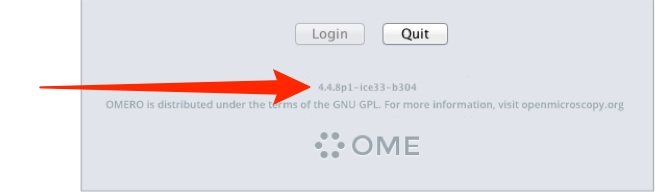
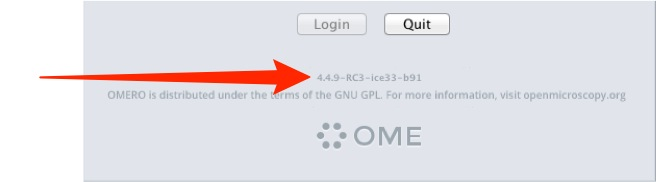
Updating pages and links to show version 4.4.9 and new downloads pages

diff --git a/index.html b/index.html
@@ -6,7 +6,7 @@ title: Home Page
 <p>These pages contain the User Guides for OMERO.insight and OMERO.web.</p>
 <p>The Guides for the current versions are listed in the main menu, and the <a href="previous.html"> Guides for Previous Versions</a> page has links to archives of older versions.</p>
 <p>The <a href="resources.html">Resources</a> page contains links to ZIP archives of the PDFs for all the current versions,  customised versions of some of the Guides and other resources such as  Omnigraffle&reg; and Word&reg; files.</p>
-<p>The current release versions of OMERO.insight are 4.4.8p1 and 5.0.0-beta1. You can tell what version of OMERO.insight you are using by looking at the login screen.</p>
+<p>The current release versions of OMERO.insight are 4.4.9 and 5.0.0-beta1. You can tell what version of OMERO.insight you are using by looking at the login screen.</p>
 <p>&nbsp;</p>
 <p><img src="{{ site.baseurl }}/images/homeVersion.jpg" width="655" height="192" alt="OMERO.insight Version" /></p>
 <p>&nbsp;</p>

diff --git a/getting-started-4.html b/getting-started-4.html
@@ -23,7 +23,7 @@ your standard login for the institution&#8217;s networked computers.</p>
 <ol class="step">
 
 <li><p class="first">Download OMERO.insight client at:
-<a class="external-url" href="http://www.openmicroscopy.org/site/products/omero/downloads">http://downloads.openmicroscopy.org/omero/</a></p>
+<a class="external-url" href="http://downloads.openmicroscopy.org/omero/4.4.9.html">http://downloads.openmicroscopy.org/omero/4.4.9.html</a></p>
 
 <div class="line-block">
 <div class="line"><br /></div> <!-- end #line -->

diff --git a/getting-started-5.html b/getting-started-5.html
@@ -23,7 +23,7 @@ your standard login for the institution&#8217;s networked computers.</p>
 <ol class="step">
 
 <li><p class="first">Download OMERO.insight client at:
-<a class="external-url" href="http://downloads.openmicroscopy.org/omero/">http://downloads.openmicroscopy.org/omero/</a></p>
+<a class="external-url" href="http://downloads.openmicroscopy.org/omero/5.0.0-beta1.html">http://downloads.openmicroscopy.org/omero/5.0.0-beta1.html</a></p>
 
 <div class="line-block">
 <div class="line"><br /></div> <!-- end #line -->
